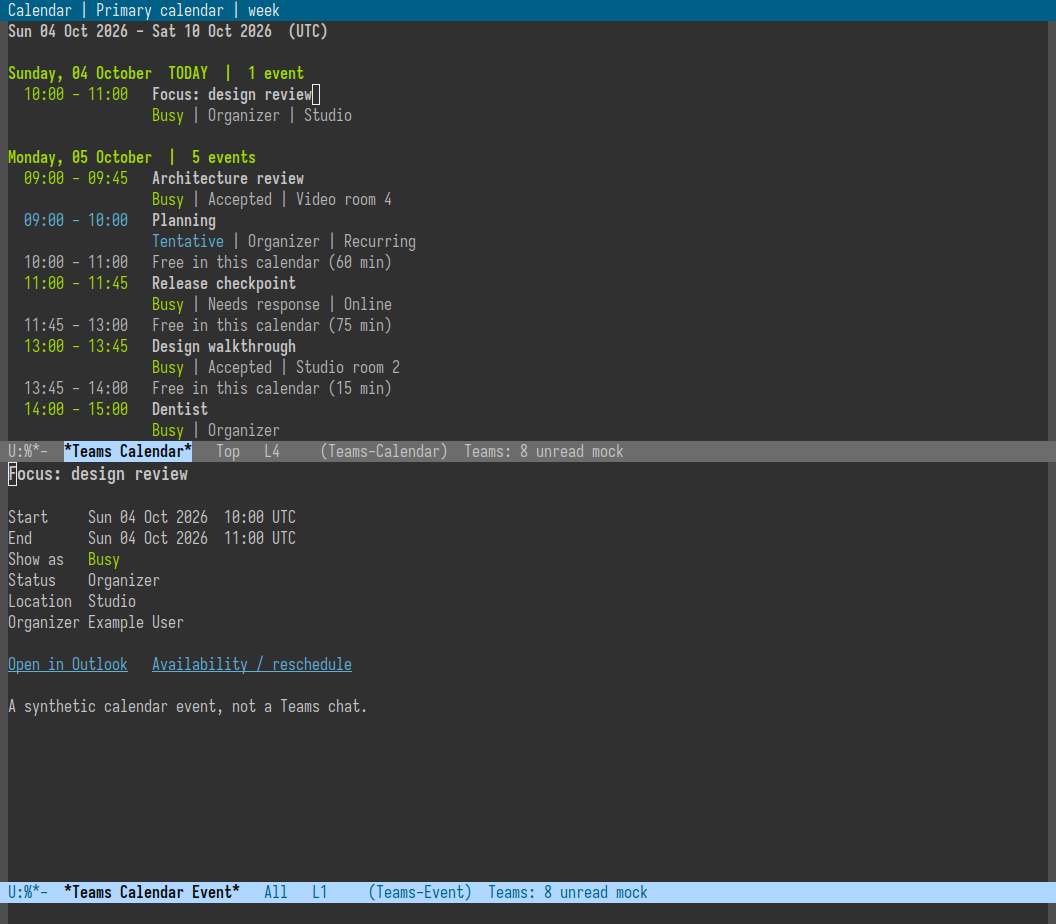
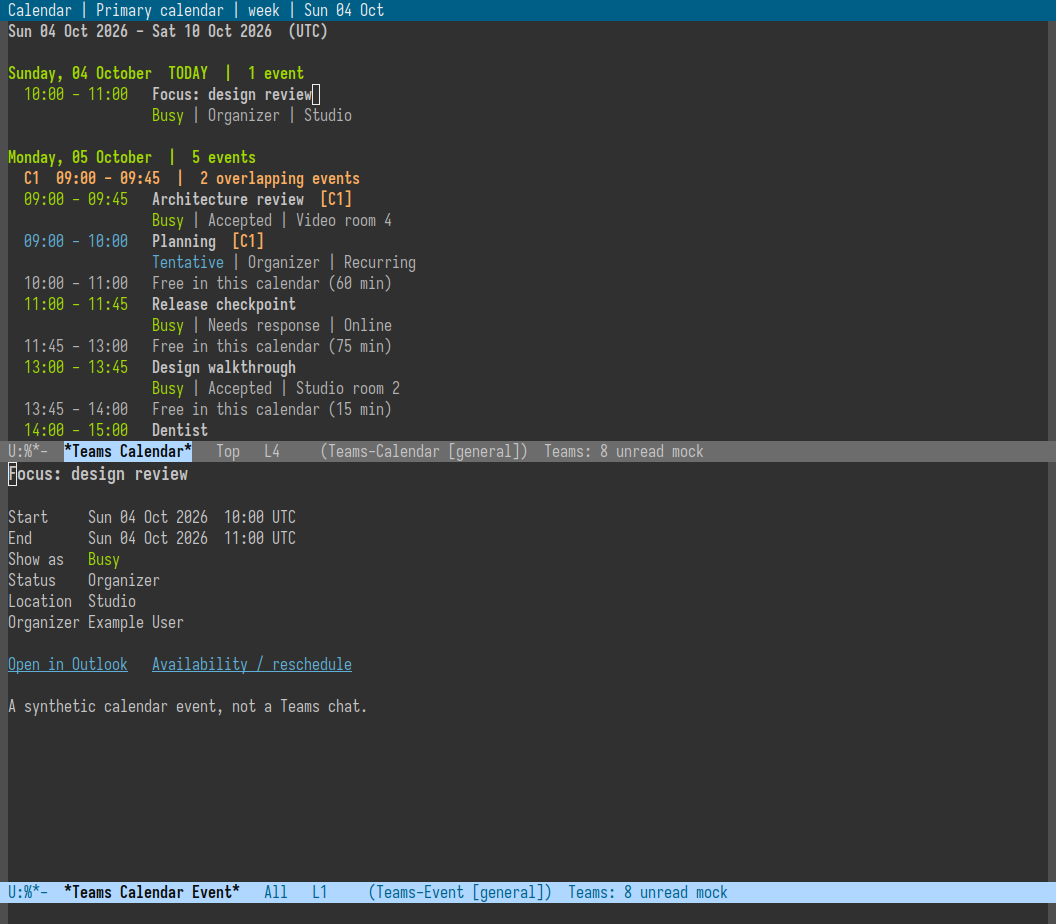
Document calendar conflicts with real window-purpose captures

diff --git a/CALENDAR.md b/CALENDAR.md
@@ -63,6 +63,9 @@ titles, or open an event to see clickable overlap partners and their exact share
 intervals. Those links reuse the same invite pane, where `r` opens availability.
 As with free gaps, overlap detection covers only the loaded selected calendar.
 
+[Conflict detail in real Emacs with Moe and window-purpose](assets/calendar-conflicts.png)
+uses synthetic appointments, not account data.
+
 These are ordinary, customizable Emacs keymaps:
 `teams4e-calendar-mode-map` and `teams4e-calendar-event-mode-map`.
 Evil uses motion state with the local calendar map taking precedence.
